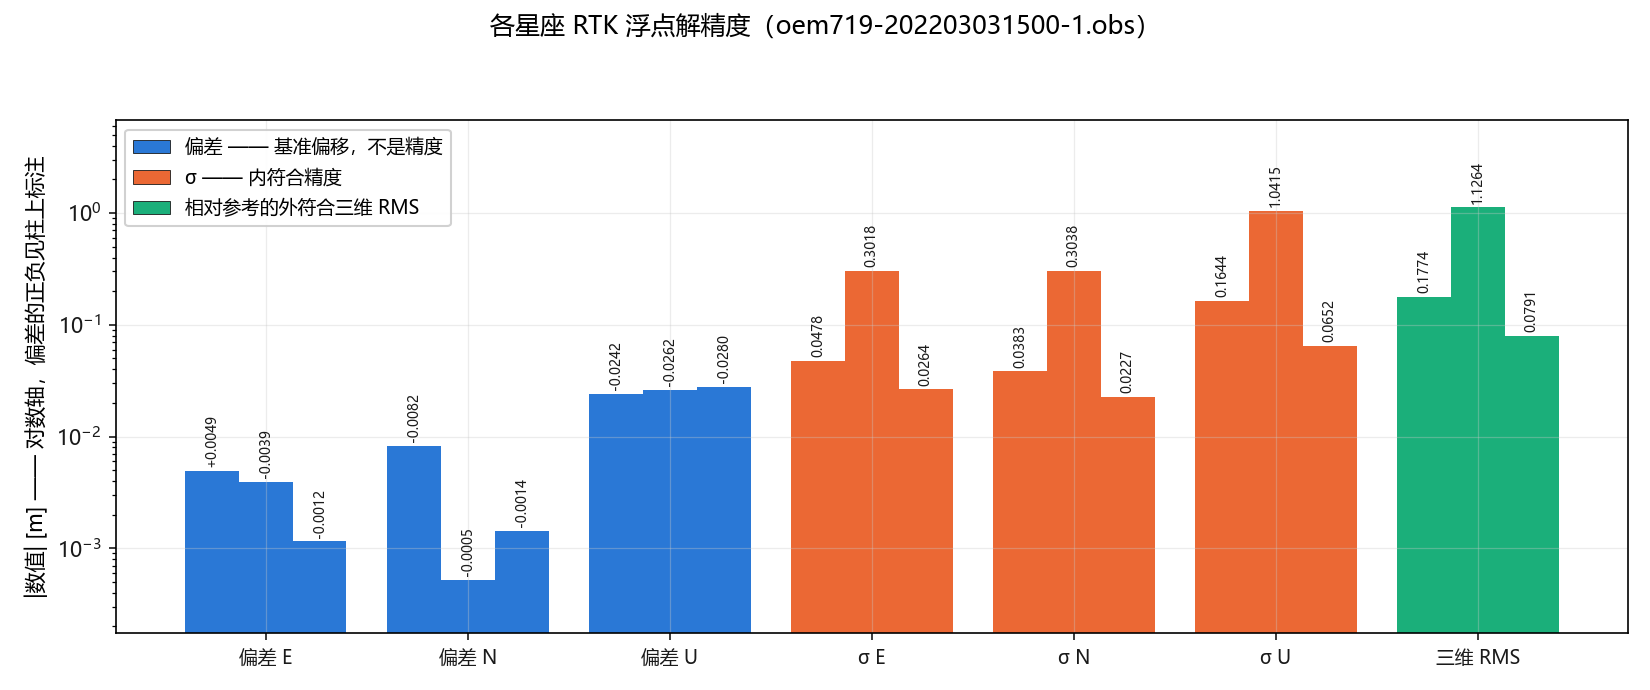
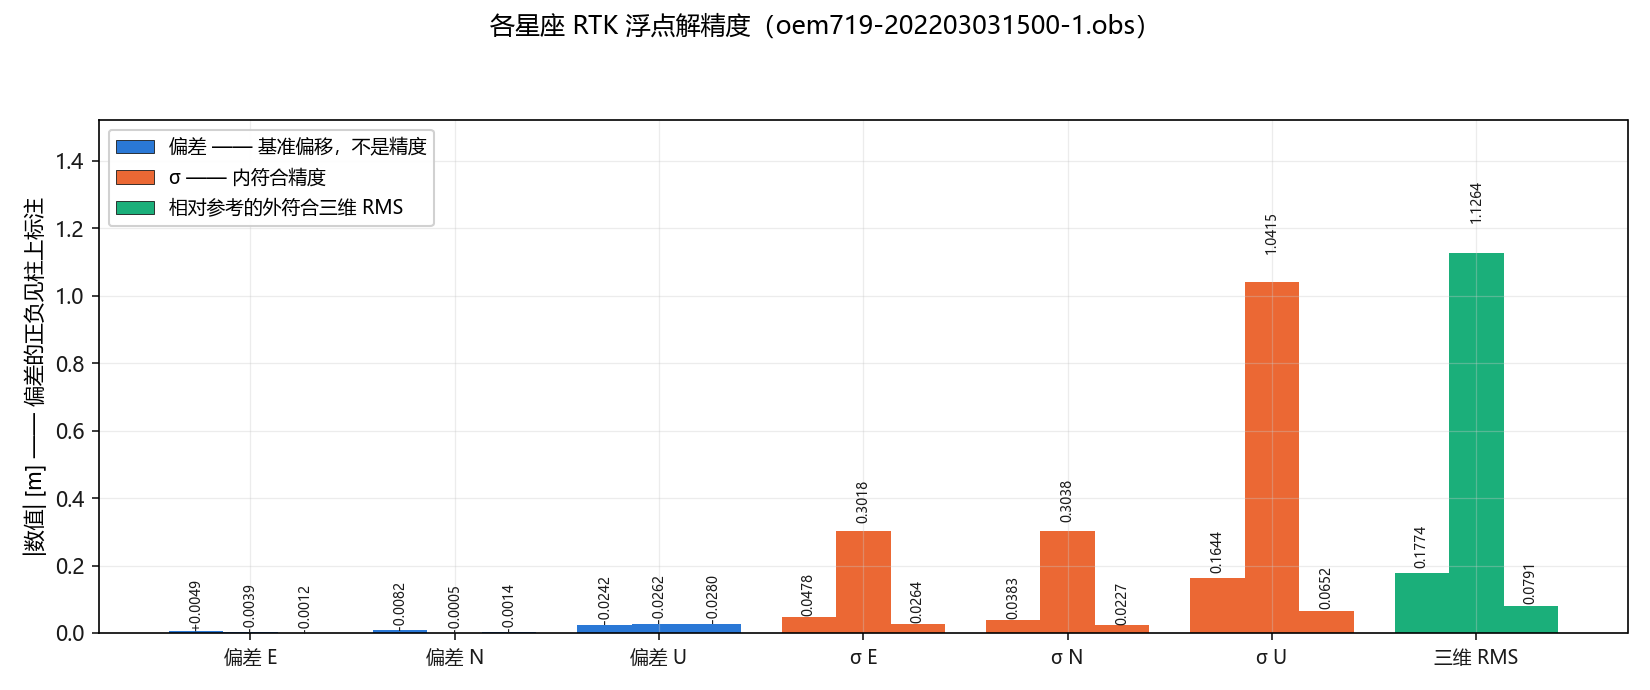
feat(plot): linear axes in the chapter-8 figures
The chapter's figures were drawn on logarithmic axes, on the argument that a
linear one collapses the small series onto zero. The convention asked for is the
opposite: show the true values. So 8-1, 8-3, 8-4 and 8-6 lose the log scale and
the fixed 5e-4..200 m window, and the RTK / fixed / Kalman bands now lie on the
bottom edge of a window set by the largest series. That vertical distance *is*
the comparison, and every panel annotates the numbers the height can no longer
carry: the SPP and RTK RMS and offset in 8-1, the signed bias, sigma and RMS on
each bar of 8-3, the fixed rate and the three RMS figures in 8-4.

8-2 was already linear. 8-5 keeps its logarithmic *x* axis: it plots the ratio
test statistic, which spans five decades, and that statistic is not an error.

Six figures regenerated, the axis labels no longer say "log axis" in either
language, and the captions and section four's prose say what the linear axis
does and does not show. Both figure tests pass.

diff --git a/python/src/gnss_plot/figures.py b/python/src/gnss_plot/figures.py
@@ -884,19 +884,21 @@ def fig_rtk_spp_vs_rtk_ts(modes, out_png, rover="", lang="en"):
     section four's table and prose (50x / 16x / 110x centred, 7.2x / 9.2x /
     14.4x epoch-to-epoch), next to the 121x / 30x / 330x this panel annotates.
 
-    **The logarithmic axis is the figure, not a flourish.** SPP's 3-D RMS is
-    21-33 m and RTK's is 0.08-1.13 m; on a linear axis the RTK band collapses
-    into a flat line lying on zero. The window is fixed and shared by all three
-    panels for the same reason - refitting it per constellation would make
-    BDS-2's 1.13 m and BDS-3's 0.076 m look alike, and telling those two apart
-    is what section four concludes.
+    **The axis is linear, and that is the point.** SPP's 3-D RMS is 2.8-13.5 m
+    and RTK's is 0.08-1.13 m: the RTK band lies in the bottom few percent of the
+    window while the SPP band runs across the top of it, and the reader can see
+    both *how large* the SPP error is and that the differential solution is two
+    orders below it. A logarithmic axis shows the ratio instead and hides the
+    size - which is why this chapter's figures are all linear (chapter 8's
+    figures, like the rest of the report). The window is fixed and shared by all
+    three panels - refitting it per constellation would make BDS-2's 1.13 m and
+    BDS-3's 0.076 m look alike, and telling those two apart is what section four
+    concludes.
 
-    Two things the log axis forces. An exact zero is -inf there, so a magnitude
-    of zero becomes a NaN and leaves a gap, rather than taking the ``1e-9``
-    floor the bar chart uses: a zero-height bar is invisible at any limit, but
-    a line would have to draw the point somewhere, and 1e-9 would claim an
-    accuracy of one nanometre. And no zero line is drawn - it is off the bottom
-    of the axis entirely.
+    A magnitude of exactly zero still becomes a NaN here rather than a plotted
+    point. On this axis the resulting gap sits on the bottom edge and is a
+    line-width wide, so the curve reads as continuous; keeping the rule means
+    this panel and figures 8-4 and 8-6 treat a zero the same way.
     """
     modes = [(str(m[0]), np.asarray(m[1], dtype=float), m[2]) for m in modes]
     n = max((int(sod.size) for _l, sod, _s in modes), default=0)
@@ -941,12 +943,13 @@ def fig_rtk_spp_vs_rtk_ts(modes, out_png, rover="", lang="en"):
     # One label for the middle panel only: the three panels carry the same
     # quantity, so repeating it three times would say nothing new.
     axes[1].set_ylabel(t(lang, "axis_rtk_mag"), fontsize=10)
-    # Logarithmic, and set on the first panel only: sharey propagates both the
-    # scale and the window to the other two, which is the point of sharing them.
-    # Without the log scale the RTK band collapses onto zero and the figure says
-    # nothing - the exact failure this figure exists to avoid.
-    axes[0].set_yscale("log")
-    axes[0].set_ylim(_RTK_CMP_YMIN, _RTK_CMP_YMAX)
+    # Linear, and set on the first panel only: sharey propagates both the scale
+    # and the window to the other two, which is the point of sharing them. The
+    # RTK band therefore sits on the bottom edge of the window while the SPP
+    # band crosses the top of it, and the distance between them is what the
+    # figure is for - a log axis would compress that into a ratio and hide how
+    # large the SPP error actually is.
+    axes[0].set_ylim(bottom=0.0)
     axes[-1].set_xlabel(t(lang, "axis_sod"), fontsize=10)
     _sod_axis(axes[-1], np.concatenate([s for _l, s, _s in modes])
               if modes else np.asarray([], dtype=float))
@@ -1047,13 +1050,13 @@ def fig_rtk_accuracy_bars(series, out_png, rover="", lang="en"):
     per-axis biases, the three per-axis sigmas, and the 3-D RMS - grouped by
     constellation.
 
-    The y axis is **logarithmic and unsigned**, and that is a deliberate
-    compromise rather than a preference. On a linear axis the three biases
-    (millimetres to centimetres) would be invisible next to a 1.1 m 3-D RMS,
-    and the whole point of the figure is that the bias and the sigma are
-    different kinds of quantity that have to be read side by side. The cost is
-    that the bias sign cannot be shown by a bar, so it is printed above each
-    one and kept in the table; the axis label says so.
+    The y axis is **linear and unsigned**. The three biases are millimetres to
+    centimetres against a 3-D RMS of 0.08-1.13 m, so their bars are short - and
+    that is the figure's point: the bias and the sigma are different kinds of
+    quantity, read side by side, and the meters-scale column is the one that
+    dominates. Every bar carries its own value as a label, signed for the bias,
+    so nothing depends on a bar's height to be read; the axis label says the
+    sign lives in the label.
 
     Values are printed on the bars, because a reader checking this figure
     against the console table should not have to estimate from a pixel height.
@@ -1081,9 +1084,9 @@ def fig_rtk_accuracy_bars(series, out_png, rover="", lang="en"):
             heights.append(v)
         values.append(heights)
         # abs() for the bar height, the signed value for the label. A zero
-        # would be -inf on a log axis and cannot occur in these quantities
-        # (a sigma of exactly zero is a degenerate run), so the floor is a
-        # guard rather than a correction.
+        # cannot occur in these quantities (a sigma of exactly zero is a
+        # degenerate run), so the floor is a guard rather than a correction -
+        # it only keeps the label from being placed at y = 0.
         heights = np.abs(np.asarray(heights, dtype=float))
         heights = np.where(heights > 0.0, heights, 1e-9)
         cls = [0 if s else (2 if k == n_items - 1 else 1)
@@ -1102,10 +1105,13 @@ def fig_rtk_accuracy_bars(series, out_png, rover="", lang="en"):
                     ha="center", va="bottom", rotation=90, fontsize=6.5,
                     color=INK)
 
-    ax.set_yscale("log")
+    # Linear, like the rest of this chapter's figures: the bars show the actual
+    # metres. Values a bar cannot show - a bias of a few millimetres next to a
+    # decimetre RMS - are printed on the bar itself by annot_bar_*, so nothing
+    # becomes unreadable by dropping the log scale.
     finite = [abs(v) for heights in values for v in heights if abs(v) > 0.0]
     if finite:
-        ax.set_ylim(min(finite) / 3.0, max(finite) * 6.0)
+        ax.set_ylim(0.0, max(finite) * 1.35)
     ax.set_xticks(x)
     ax.set_xticklabels([t(lang, k) for k, _g, _s in _RTK_BAR_ITEMS], fontsize=9)
     ax.set_ylabel(t(lang, "axis_rtk_abs"), fontsize=10)
@@ -1163,9 +1169,9 @@ def fig_rtk_float_vs_fixed_ts(modes, out_png, rover="", lang="en", threshold=3.0
                    thr="%.1f" % threshold), fontsize=12)
 
     for k, (ax, (label, sod, mag_f, mag_x, acc)) in enumerate(zip(axes, modes)):
-        # Magnitude zero is -inf on the log axis, so it becomes a gap rather
-        # than a plotted point; see fig_rtk_spp_vs_rtk_ts for why 1e-9 is not
-        # used here.
+        # A magnitude of exactly zero becomes a gap rather than a plotted
+        # point; on the linear axis that gap sits on the bottom edge and is a
+        # line-width wide. See fig_rtk_spp_vs_rtk_ts for the rule.
         grey = np.where(mag_f > 0.0, mag_f, np.nan)
         red = np.where(acc & (mag_x > 0.0), mag_x, np.nan)
         ax.plot(sod, _break_gaps(sod, grey), color=C_SPP, lw=0.6, alpha=0.85,
@@ -1189,8 +1195,7 @@ def fig_rtk_float_vs_fixed_ts(modes, out_png, rover="", lang="en", threshold=3.0
         style_ax(ax)
 
     axes[1].set_ylabel(t(lang, "axis_rtk_mag_fix"), fontsize=10)
-    axes[0].set_yscale("log")
-    axes[0].set_ylim(_RTK_CMP_YMIN, _RTK_CMP_YMAX)
+    axes[0].set_ylim(bottom=0.0)
     axes[-1].set_xlabel(t(lang, "axis_sod"), fontsize=10)
     _sod_axis(axes[-1], np.concatenate([s for _l, s, *_r in modes])
               if modes else np.asarray([], dtype=float))
@@ -1301,9 +1306,10 @@ def fig_rtk_lsq_vs_kalman_ts(panels, out_png, rover="", lang="en"):
 
     for k, (ax, (label, sod_l, mag_l, sod_k, mag_k)) in enumerate(
             zip(axes, panels)):
-        # Magnitude zero is -inf on the log axis, so it becomes a gap rather
-        # than a plotted point; see fig_rtk_spp_vs_rtk_ts for why 1e-9 is not
-        # used here. Each series is broken on its own sod, not the other's.
+        # A magnitude of exactly zero becomes a gap rather than a plotted
+        # point; on the linear axis that gap sits on the bottom edge. See
+        # fig_rtk_spp_vs_rtk_ts for the rule. Each series is broken on its own
+        # sod, not the other's.
         grey = np.where(mag_l > 0.0, mag_l, np.nan)
         red = np.where(mag_k > 0.0, mag_k, np.nan)
         ax.plot(sod_l, _break_gaps(sod_l, grey), color=C_SPP, lw=0.6,
@@ -1329,8 +1335,7 @@ def fig_rtk_lsq_vs_kalman_ts(panels, out_png, rover="", lang="en"):
         style_ax(ax)
 
     axes[1].set_ylabel(t(lang, "axis_rtk_mag_kalman"), fontsize=10)
-    axes[0].set_yscale("log")
-    axes[0].set_ylim(_RTK_CMP_YMIN, _RTK_CMP_YMAX)
+    axes[0].set_ylim(bottom=0.0)
     axes[-1].set_xlabel(t(lang, "axis_sod"), fontsize=10)
     sods = [s for _l, s_l, _a, s_k, _b in panels for s in (s_l, s_k)]
     _sod_axis(axes[-1], np.concatenate(sods) if sods

diff --git a/python/src/gnss_plot/_strings.py b/python/src/gnss_plot/_strings.py
@@ -132,7 +132,7 @@ STRINGS: dict[str, dict[str, str]] = {
         # The bar chart is logarithmic so that bias and sigma stay comparable
         # across two orders of magnitude; the sign of a bias is carried by the
         # bar label and the table instead, which is what this axis label says.
-        "axis_rtk_abs": "|value| [m] — log axis, bias is signed in the label",
+        "axis_rtk_abs": "|value| [m] — bias is signed in the label",
         "annot_bar_signed": "{v:+.4f}",
         "annot_bar_plain": "{v:.4f}",
 
@@ -147,7 +147,7 @@ STRINGS: dict[str, dict[str, str]] = {
         # BDS-2's 1.13 m and BDS-3's 0.076 m do not look alike, and "deviation"
         # rather than "error" is what the axis actually measures: a distance
         # from the base header coordinate, which this dataset cannot check.
-        "axis_rtk_mag": "deviation |d| [m] — log axis, one window for all panels",
+        "axis_rtk_mag": "deviation |d| [m] — one window for all panels",
         # Short, as in the sibling figures (8-4's "RTK float").
         "legend_spp": "SPP",
         "legend_rtk": "RTK float",
@@ -170,7 +170,7 @@ STRINGS: dict[str, dict[str, str]] = {
         # a longer label runs off the bottom of a three-panel figure once
         # tight_layout has taken its share. What grey and red mean is the
         # legend's job, not the axis label's.
-        "axis_rtk_mag_fix": "3-D error |d| [m] — log axis, one window for all panels",
+        "axis_rtk_mag_fix": "3-D error |d| [m] — one window for all panels",
         "legend_float": "RTK float",
         "legend_fixed": "RTK fixed (accepted)",
         # {rate} and the RMS values are numbers, not preformatted strings: the
@@ -190,7 +190,7 @@ STRINGS: dict[str, dict[str, str]] = {
 
         # --- the estimator comparison (figure 8-6) ---
         # Same length as axis_rtk_mag_fix, for the reason given above it.
-        "axis_rtk_mag_kalman": "3-D error |d| [m] — log axis, one window for all panels",
+        "axis_rtk_mag_kalman": "3-D error |d| [m] — one window for all panels",
         "title_rtk_kalman": "RTK float: single-epoch LSQ vs Kalman filter, one "
                             "panel per constellation ({rover}, {n} epochs each)",
         # Named for the estimators, not for "float" against "something else":
@@ -401,14 +401,14 @@ STRINGS: dict[str, dict[str, str]] = {
         "title_rtk_bars": "各星座 RTK 浮点解精度（{rover}）",
 
         "annot_stats_rtk": "{mode}: 偏差={bias:+.3f}  σ={std:.3f}  RMS={rms:.3f} m",
-        "axis_rtk_abs": "|数值| [m] —— 对数轴，偏差的正负见柱上标注",
+        "axis_rtk_abs": "|数值| [m] —— 偏差的正负见柱上标注",
         "annot_bar_signed": "{v:+.4f}",
         "annot_bar_plain": "{v:.4f}",
 
         # --- SPP 与 RTK 对比图（图 8-1）---
         "title_rtk_spp": "SPP 与 RTK 相对参考坐标的三维偏差时序，每个星座一个面板"
                          "（{rover}，各 {n} 个历元）",
-        "axis_rtk_mag": "相对参考坐标的偏差 |d| [m] —— 对数轴，三面板共用窗口",
+        "axis_rtk_mag": "相对参考坐标的偏差 |d| [m] —— 三面板共用窗口",
         # 与同章的图 8-4 一样取短标签。
         "legend_spp": "SPP",
         "legend_rtk": "RTK 浮点解",
@@ -423,7 +423,7 @@ STRINGS: dict[str, dict[str, str]] = {
         # --- 固定解（图 8-4、图 8-5）---
         "title_rtk_fix": "RTK 浮点解与固定解三维误差时序，每个星座一个面板"
                          "（{rover}，各 {n} 个历元，ratio > {thr}）",
-        "axis_rtk_mag_fix": "三维误差 |d| [m] —— 对数轴，三面板共用窗口",
+        "axis_rtk_mag_fix": "三维误差 |d| [m] —— 三面板共用窗口",
         "legend_float": "RTK 浮点解",
         "legend_fixed": "RTK 固定解（已接受）",
         "annot_rtk_fix": "{mode}: 固定率 {rate:.1f}%  ·  浮点 RMS {frms:.3f} m  "
@@ -436,7 +436,7 @@ STRINGS: dict[str, dict[str, str]] = {
         "annot_ratio_thr": "阈值 {thr} —— 该线左侧全部被拒",
 
         # --- 解算器对比（图 8-6）---
-        "axis_rtk_mag_kalman": "三维误差 |d| [m] —— 对数轴，三面板共用窗口",
+        "axis_rtk_mag_kalman": "三维误差 |d| [m] —— 三面板共用窗口",
         "title_rtk_kalman": "RTK 浮点解：单历元最小二乘与卡尔曼滤波对比，"
                             "每个星座一个面板（{rover}，各 {n} 个历元）",
         "legend_lsq_float": "单历元最小二乘（浮点解）",

diff --git a/docs/rtk.md b/docs/rtk.md
@@ -219,15 +219,17 @@ ECEF 三轴的值，两者不可混用（见下方注记）。
 ![SPP 与 RTK 相对参考坐标的三维偏差时序](figures/vis_rtk_spp_vs_rtk_ts.png)
 
 **图 8-1**　SPP 与 RTK **相对参考坐标**的三维偏差时序，每个星座一个面板（上起 GPS、北斗
-二号、北斗三号），纵轴对数、三个面板共用同一窗口。灰线为 SPP，红线为 RTK 浮点解，两条线
+二号、北斗三号），纵轴**线性（真实数值，全章不用对数轴）**、三个面板共用同一窗口。灰线为 SPP，红线为 RTK 浮点解，两条线
 都是**原始结果**（没有做任何扣除或缩放）；面板左上角给出各自的**三维 RMS 与偏移量**，
 最后一行是上表最右列那个比值。三条 SPP 带子落在 2.8–13.5 m，三条 RTK 带子落在 0.08–1.13 m。
 
 **这张图画的是什么。** 横轴是当天秒内时刻 sod，**每个点是一个历元的三维位置偏差**
 |d| = √(E²+N²+U²)，坐标框架是站心 ENU、参考是基准站表头坐标——与上表同源，面板上的数字
-就是 `rtk.error_stats` 的那几个返回值，不另算。纵轴取对数：两列相差 12–40 倍，线性轴上
-RTK 会退化成贴着零线的一条直线。三个面板共用同一窗口同样是为了可比——各自缩放会让北斗
-二号的 1.13 m 与北斗三号的 0.076 m 看起来一样。
+就是 `rtk.error_stats` 的那几个返回值，不另算。**纵轴是线性的**，读的是真实米数：两列
+相差 12–40 倍，所以 RTK 那条线就压在坐标轴上，而**这个高度差本身就是这张图的结论**。
+三个面板共用同一窗口同样是为了可比——各自缩放会让北斗二号的 1.13 m 与北斗三号的
+0.076 m 看起来一样。曲线被压扁时靠**每个面板左上角的数字**读数：两列的偏移与 RMS 都写在
+那里，高度只是形状。
 
 **读这张图要带两个前提**，它们分别写在面板的「偏移」那一项上：
 
@@ -308,7 +310,7 @@ SPP 那一列里**全额保留**，在 RTK 那一列里**按构造为零**，它
 ![上表的柱状图版本](figures/vis_rtk_accuracy_bars.png)
 
 **图 8-3**　上表七项量的柱状图版本，按星座分组、按偏差／σ／三维 RMS 三类上色；
-纵轴取绝对值并对数，偏差的正负标在柱顶（原因见本节开头）。
+纵轴取绝对值、**线性**，偏差的正负标在柱顶（原因见本节开头）——毫米级的偏差柱几乎看不到高度，但每根柱子都带自己的数值。
 
 ### 零基线这个前提要说清楚
 
@@ -513,7 +515,7 @@ ratio > 3 的历元，「提升」= 浮点 RMS ÷ 固定 RMS：
 
 ![浮点解与固定解的三维误差时序](figures/vis_rtk_float_vs_fixed_ts.png)
 
-**图 8-4**　浮点解（灰）与**被接受的**固定解（红）三维误差时序，纵轴对数、
+**图 8-4**　浮点解（灰）与**被接受的**固定解（红）三维误差时序，纵轴**线性**、
 三面板共用与图 8-1 相同的窗口。灰带的高度就是图 8-1 里 RTK 那条线的高度，
 两图可以直接对照读：灰与红之间的距离就是固定买来的东西。红色只在 ratio 通过处绘制，
 **不在被拒历元上插值或回落到浮点值**——因为消费者在那些历元上拿到的确实是浮点解。
@@ -736,7 +738,7 @@ BDS-2（C07）的那些历元。写成"取两边系数表的并集"才对。
 
 ![单历元最小二乘与卡尔曼滤波的浮点解对比](figures/vis_rtk_lsq_vs_kalman_ts.png)
 
-**图 8-6**　灰 = 单历元最小二乘浮点解，红 = 卡尔曼滤波浮点解；纵轴对数、三面板共用图 8-1
+**图 8-6**　灰 = 单历元最小二乘浮点解，红 = 卡尔曼滤波浮点解；纵轴线性、三面板共用图 8-1
 的窗口（灰带到图 8-1 里就是 RTK 那条线的高度，到图 8-4 里就是灰色带的高度，三张图可以叠着
 读）。面板左上角是本星座两条线的三维 RMS 与提升倍数。注意灰红间距在开头一千多个历元里很窄、
 随后才迅速张开——那就是第 4 条说的收敛暂态。
